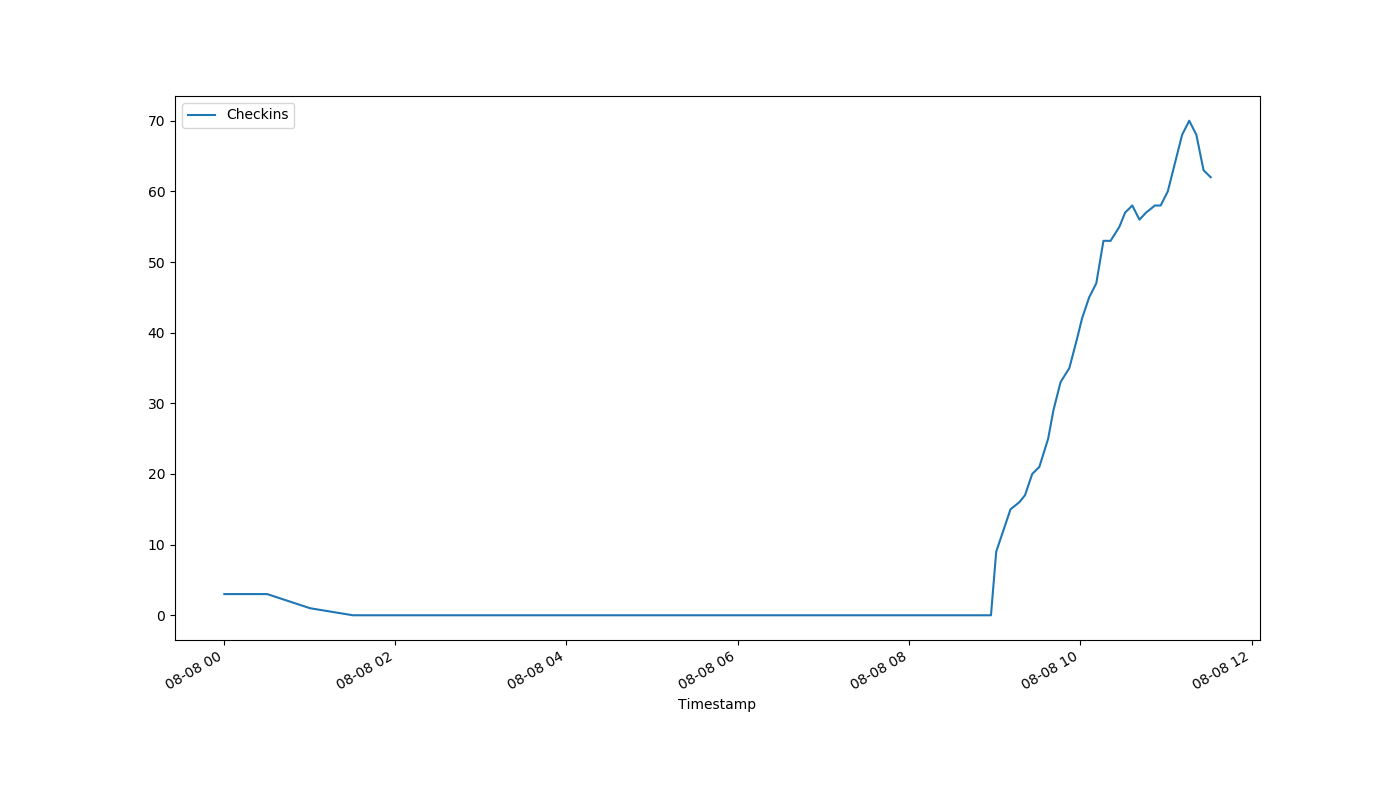
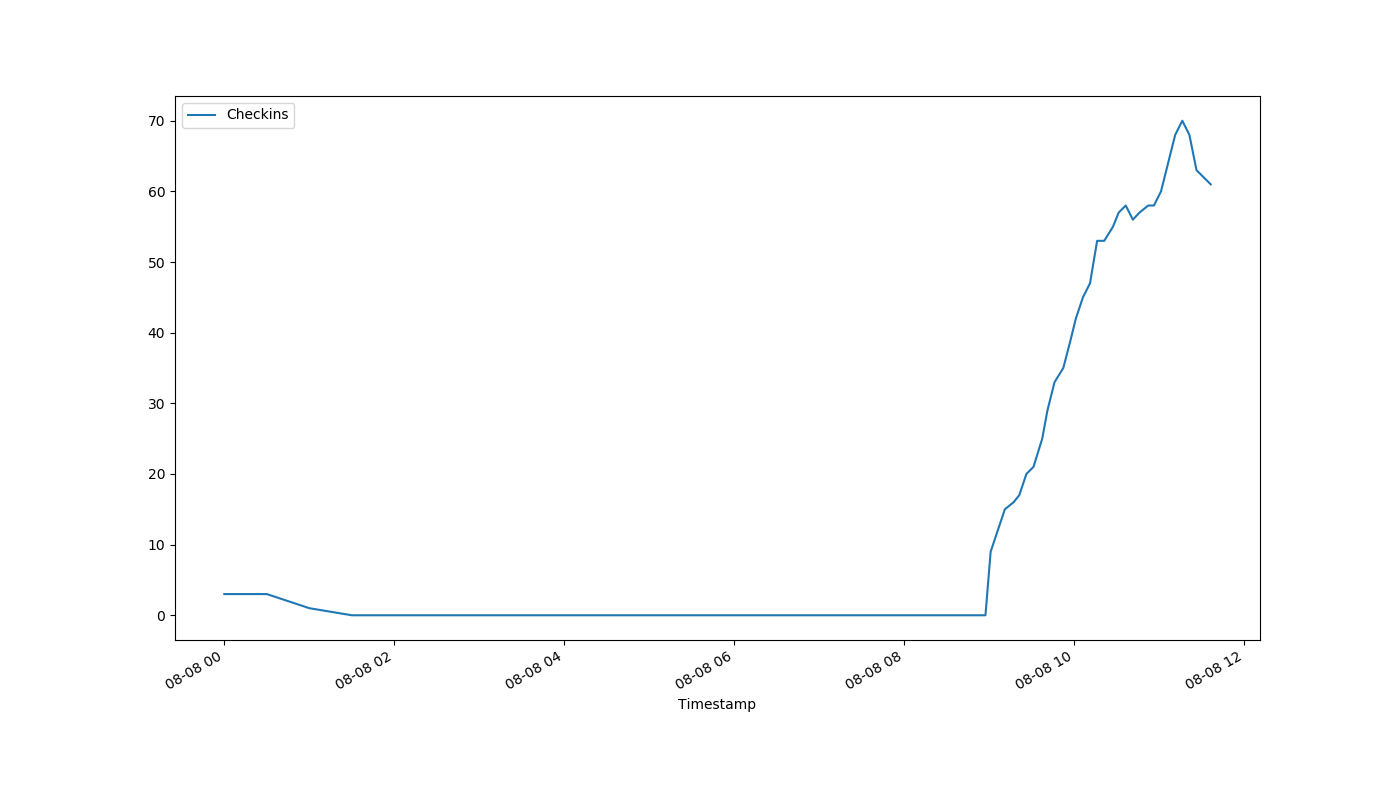
auto-Aug-08-11:37:21

diff --git a/index.html b/index.html
@@ -1,1 +1,1 @@
-<!DOCTYPE html><html><head><meta http-equiv="refresh" content="30"><link rel='stylesheet' href='holmcurrent.css'></head><body><p id='count'>62</p><div id='graph-wrap'><img id='graph' src='holmgraph-Aug-08.png'></div><p id='updated'>Last updated 11:32:09 / 11:31:13</p></body></html>
+<!DOCTYPE html><html><head><meta http-equiv="refresh" content="30"><link rel='stylesheet' href='holmcurrent.css'></head><body><p id='count'>61</p><div id='graph-wrap'><img id='graph' src='holmgraph-Aug-08.png'></div><p id='updated'>Last updated 11:37:10 / 11:36:14</p></body></html>
